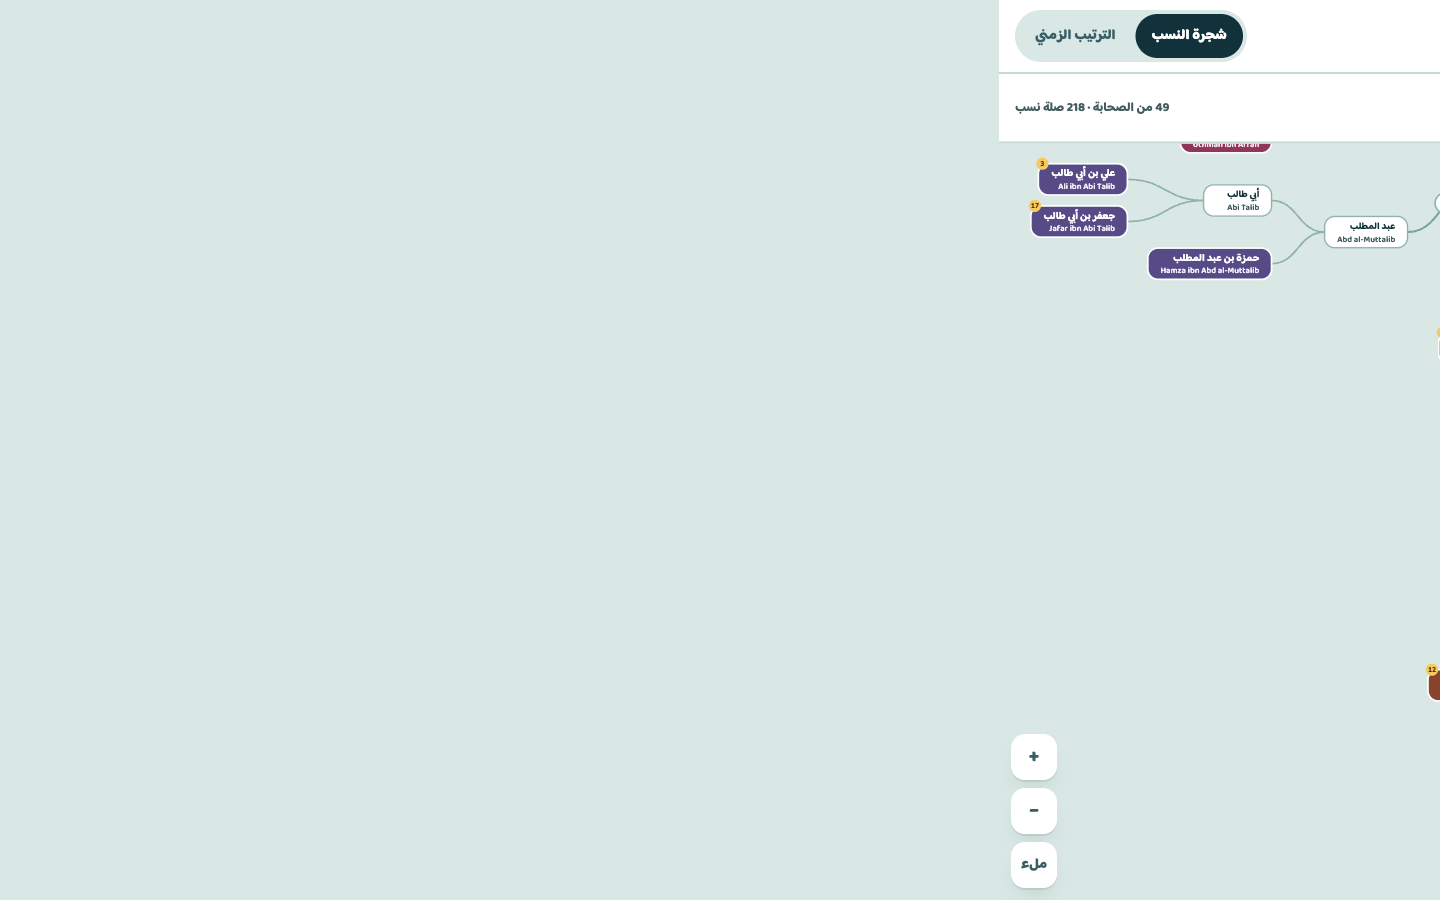
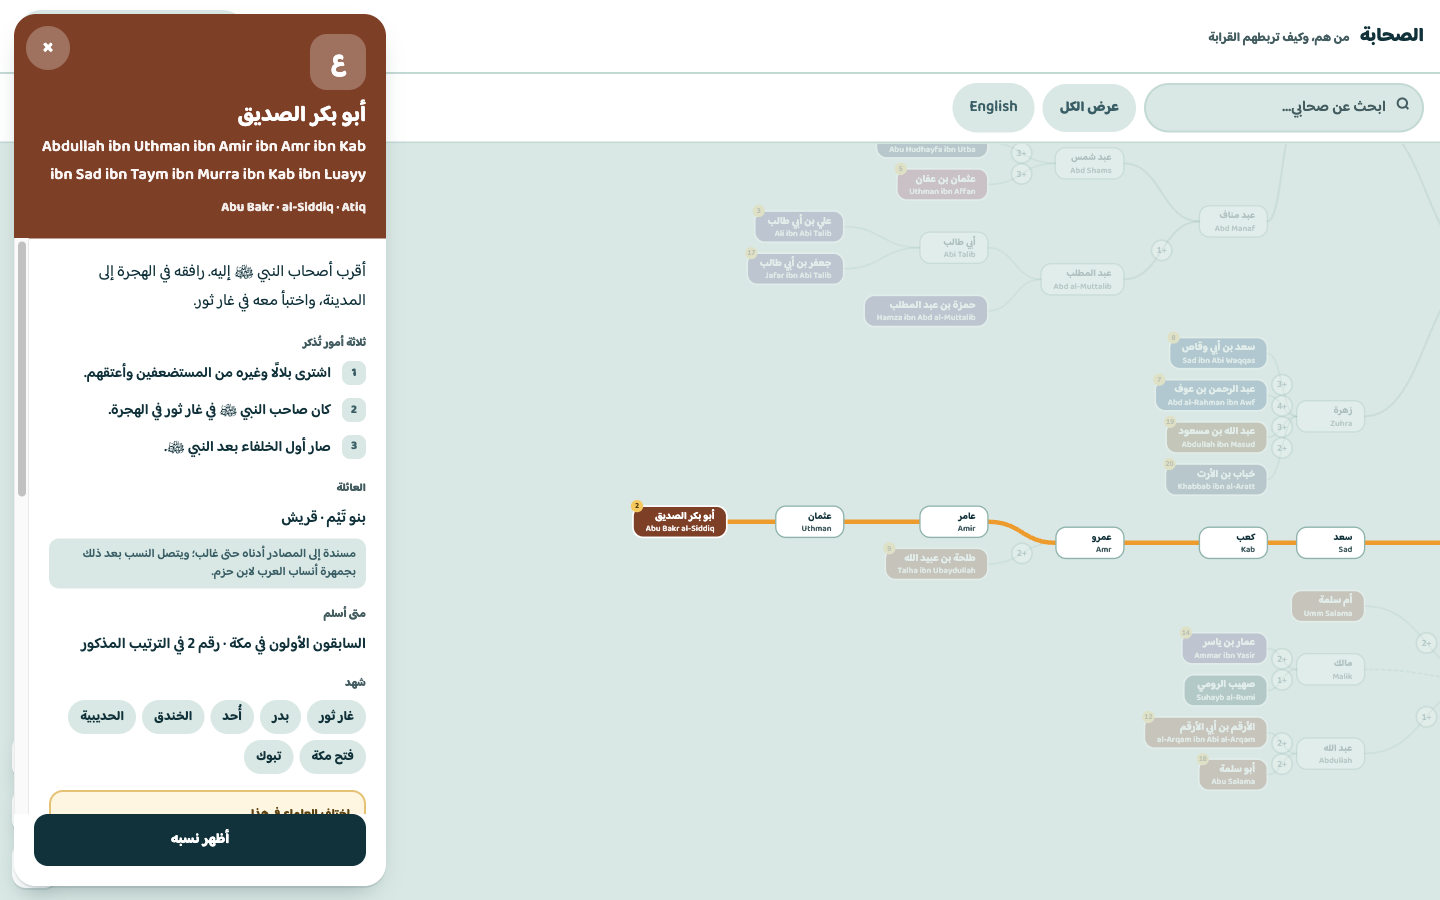
Retake the README screenshots with a companion's card open
The Arabic screenshot was unreadable. Two things were wrong.

First, the skip link was hidden with left:-999px, which under dir="rtl"
is 999px of real document overflow rather than off-screen positioning.
On screen that's harmless, but it widens the document to 2439px, and
screenshot tools capture the document rather than the viewport, so the
app ended up squeezed into a corner of the image. Hide it by clipping
instead, the same way .sr already does. While here, switch the focused
position to inset-inline-start so the link surfaces on the correct side
in Arabic; left:8px always put it on the left.

Second, both shots were of the bare tree, which says little about what
the app is for. Retake them with Abu Bakr al-Siddiq searched, his
lineage highlighted, and his card open, so the story, the family, when
he is recorded as having believed, and his sources are all visible.
Captions updated to describe that.

diff --git a/src/sahaba-tree/style.css b/src/sahaba-tree/style.css
@@ -18,9 +18,15 @@ button{font-family:inherit;cursor:pointer;border:none;background:none;color:inhe
 :focus-visible{outline:4px solid var(--focus);outline-offset:2px;border-radius:10px}
 .sr{position:absolute;width:1px;height:1px;padding:0;margin:-1px;overflow:hidden;
   clip:rect(0 0 0 0);white-space:nowrap;border:0}
-.skip{position:absolute;left:-999px;top:8px;z-index:99;background:var(--ink);color:#fff;
-  padding:10px 16px;border-radius:10px;font-weight:700}
-.skip:focus{left:8px}
+/* Hidden via clip, not left:-999px, which under dir="rtl" is 999px of
+   real document overflow (harmless on screen, but it throws off tools
+   that capture the document rather than the viewport). inset-inline-start
+   also puts the focused link on the correct side in RTL; the old left:8px
+   always revealed it on the left. Same clip idiom as .sr above. */
+.skip{position:absolute;top:8px;inset-inline-start:8px;z-index:99;background:var(--ink);color:#fff;
+  padding:10px 16px;border-radius:10px;font-weight:700;
+  width:1px;height:1px;overflow:hidden;clip:rect(0 0 0 0);white-space:nowrap}
+.skip:focus{width:auto;height:auto;overflow:visible;clip:auto}
 
 .app{display:flex;flex-direction:column;height:100dvh}
 header{flex:none;display:flex;align-items:center;gap:14px;padding:10px 16px;

diff --git a/README.md b/README.md
@@ -16,11 +16,11 @@
 
 ### لقطات الشاشة
 
-![شجرة الصحابة بالعربية](./screenshots/tree-ar.png)
-*شجرة الصحابة بالعربية — وهي العرض الافتراضي للتطبيق.*
+![شجرة الصحابة بالعربية وبطاقة أبي بكر الصديق مفتوحة](./screenshots/tree-ar.png)
+*العرض الافتراضي للتطبيق: البحث عن أبي بكر الصديق يُبرز نسبه في الشجرة ويفتح بطاقته — قصته، وقرابته، ومتى ورد أنه آمن، ومصادره.*
 
-![الشجرة نفسها بالإنجليزية](./screenshots/tree-en.png)
-*الشجرة نفسها بعد التحويل إلى الإنجليزية عبر مبدّل اللغة.*
+![العرض نفسه بالإنجليزية](./screenshots/tree-en.png)
+*العرض نفسه بعد التحويل إلى الإنجليزية عبر مبدّل اللغة، وقد انتقلت الشجرة والبطاقة إلى الاتجاه من اليسار إلى اليمين.*
 
 ### المزايا
 
@@ -129,11 +129,11 @@ The Companions is an interactive, sourced family tree and timeline of the Prophe
 
 ### Screenshots
 
-![The Companions tree in Arabic](./screenshots/tree-ar.png)
-*The Companions tree in Arabic — the app's default view.*
+![The tree in Arabic with Abu Bakr al-Siddiq's card open](./screenshots/tree-ar.png)
+*The app's default view: searching for Abu Bakr al-Siddiq highlights his lineage in the tree and opens his card — his story, his relatives, when he is recorded as having believed, and his sources.*
 
-![The same tree in English](./screenshots/tree-en.png)
-*The same tree after switching to English via the language toggle.*
+![The same view in English](./screenshots/tree-en.png)
+*The same view after switching to English via the language toggle; tree and card flip to left-to-right.*
 
 ### Features
 
